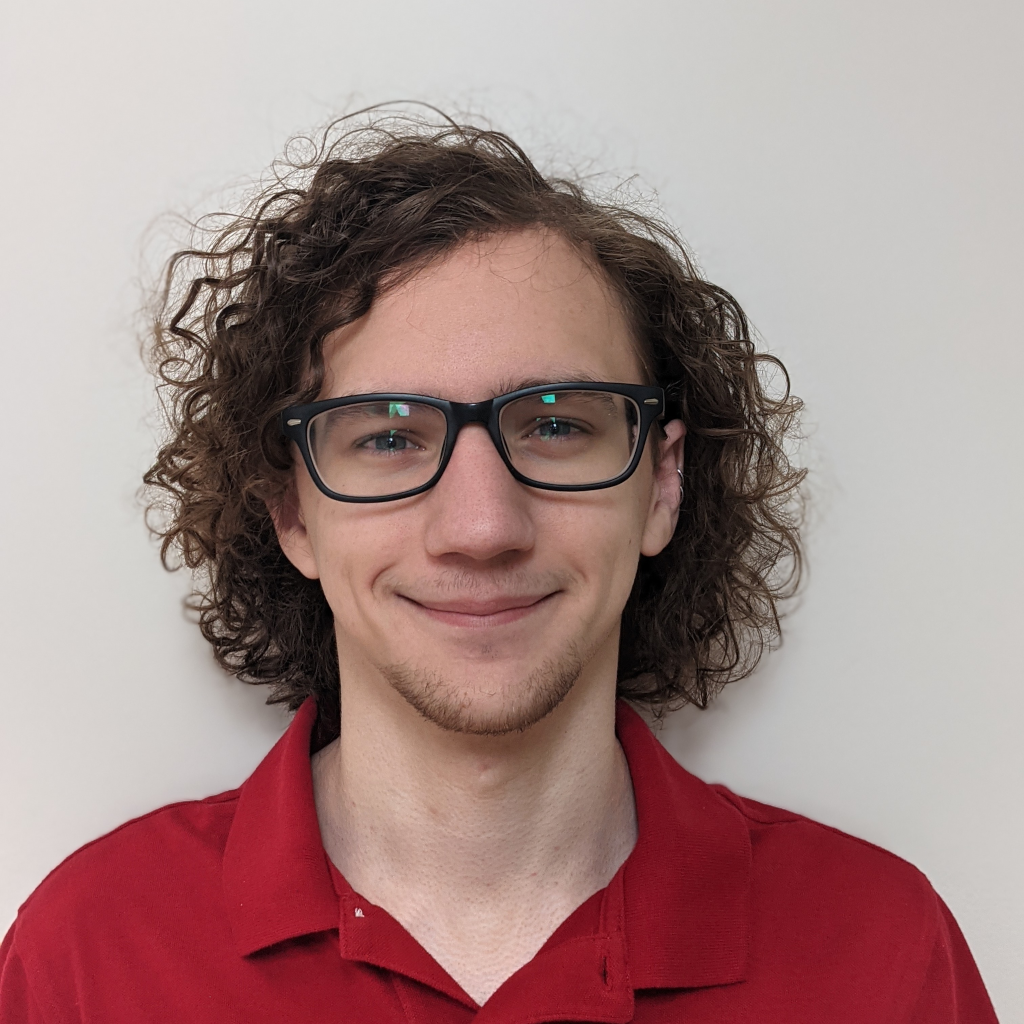
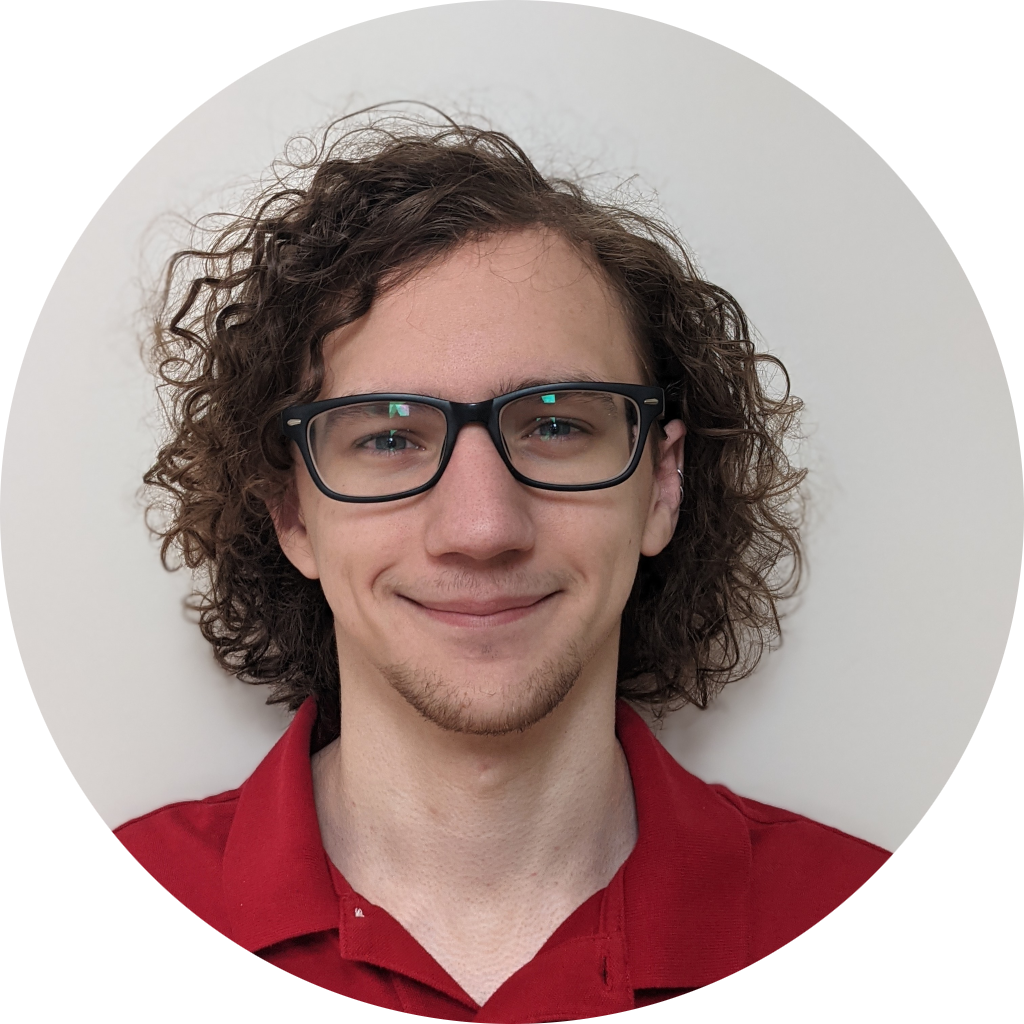
Fix aesthetic details (#3)
* Make headshot circular

* Fix links in resume.md

* Unbold link to create contrast

* Fix description to make more sense

* Add download buttons to give sidebar visual continuity

diff --git a/resume.md b/resume.md
@@ -1,9 +1,9 @@
 # Patch Salts \| Software Developer
 **Rochester, NY**
 
-patchsalts@gmail.com \| github.com/PatchSalts \| linkedin.com/in/patchsalts
+[patchsalts@gmail.com](mailto:patchsalts@gmail.com) \| [github.com/PatchSalts](https://github.com/PatchSalts) \| [linkedin.com/in/patchsalts](https://linkedin.com/in/patchsalts)
 
-[**View the PDF version here**](/assets/doc/resume.pdf)
+[View the PDF version here](/assets/doc/resume.pdf)
 
 ## Work Experience
 
@@ -28,12 +28,12 @@ Silver Springs, NY | 01/2020–08/2020
 ## Project Experience
 
 ### Digital Japanese flashcard deck builder
-github.com/PatchSalts/anki-builder
+[github.com/PatchSalts/anki-builder](https://github.com/PatchSalts/anki-builder)
 - Wrote a library of tools in Python to scan files for Japanese phrases using Fugashi and Unidic to segment words apart and generate flashcards
 - Used powerful tools like RegEx to find Japanese characters, web APIs and the Python Requests library to request dictionary definitions, and Python’s JSON library to parse the results from the web
 
 ### 3D Rendering Demo
-people.rit.edu/pps3941/GraphicsFinal/cityoftears.html
+[people.rit.edu/pps3941/GraphicsFinal/cityoftears.html](https://people.rit.edu/pps3941/GraphicsFinal/cityoftears.html)
 - Implemented textures, transparency, and frame rate-independent animation in JavaScript, HTML, WebGL, and GLSL
 
 ## Education
